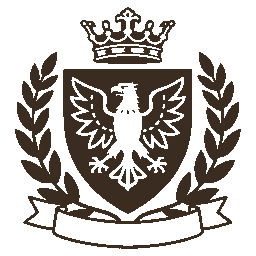
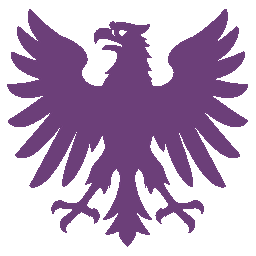
feat(art): 势力徽章只留主纹 + 13 个不同颜色（去掉王冠/绶带/盾/月桂）
用户 2026-10-21（第三轮）：
  也不要皇冠绶带盾牌 / 1、不同的徽章要不同的颜色，不要都是同一个颜色，区分度太低 /
  2、绶带都要填充，不要就是个框 / 3、沙漠那个只要两刀交叉 / 圣辉只要十字架 /
  翡翠只要毒蛇 / 铁峰只要实心山峰 + 交叉的剑

- 13 条题面全部改成 `a single symbol only: <主纹>, centred, nothing around it`
- 新变体 **`v8`**：`Bold flat vector silhouette of a single subject … no decoration around it`。
  `v7` 虽然写了"只要主纹"，但词里带 heraldic 就会被模型加上月桂枝 —— **别提纹章**才干净
- **每个势力一个颜色**：manifest 里每条写 `"ink": [r,g,b]`，`ink_knockout()` 按它上色
  （颜色不是模型画的，所以 13 个色是准的）：紫 / 靛蓝 / 近黑 / 朱红 / 金 / 橙 / 深褐 /
  翠绿 / 陶红 / 青灰 / 古铜 / 橄榄绿 / 灰
- 逐个点名的那四个照办：沙海=交叉双弯刀、圣辉=拉丁十字、翡翠=蛇、铁峰=实心山峰+交叉双剑；
  灰烬集会原来的圆环太像"禁止"标志，换成断剑
- 产物仍是设计稿：`docs/art/crests/<id>.png`（256×256）+ `_sheet.png` 总览

脚本：`gen-icons.py` 的 `process()` 支持按图标覆盖 `ink`（`post.crest.mono` 走亮度取反上色）。
文档：`icons.md` §11 重写（三轮纠偏的结论、13 枚主纹与配色表、为什么不能提 heraldic、
定稿时怎么缩 48 进游戏）；`diplomacy.md` §9.1 徽章一行的口径同步。

diff --git a/scripts/gen-icons.py b/scripts/gen-icons.py
@@ -350,7 +350,9 @@ def process(raw_path, icon, size, post=None):
     with Image.open(raw_path) as im:
         rgb = im.convert("RGB")
     if post.get("mono"):
-        cut = ink_knockout(rgb, tuple(post.get("ink", (58, 44, 32))),
+        # 颜色可以按图标覆盖（manifest 里写 `"ink": [r,g,b]`）：13 个势力纹章各一个色
+        ink = icon.get("ink") or post.get("ink", (58, 44, 32))
+        cut = ink_knockout(rgb, tuple(ink),
                            float(post.get("ink_lo", 110)), float(post.get("ink_hi", 190)))
         cut = fit_square(cut, size, margin=post.get("margin", 0.04))
         cut = harden_alpha(cut, lo=110)

diff --git a/docs/diplomacy.md b/docs/diplomacy.md
@@ -497,7 +497,7 @@ applyActions → updateRoutes → activateCompleted → activateResearch → lab
 |---|---:|---|---|---|
 | **外交 / 军事 面板图标** | 2 | `assets/ui/panel/diplomacy.png`<br>`assets/ui/panel/military.png` | 32×32 | 握手 + 卷轴与火漆／交叉的两把铁剑压在木盾上（两张都烤了左侧圆盘）|
 | **左侧圆盘** | 2 | `assets/ui/nav/diplomacy.png`<br>`assets/ui/nav/military.png` | 48×48 | 由上面两张**烤盘**（`manifest.navPlate`），不用单独画 |
-| **势力纹章** | 13 | **设计稿** `docs/art/crests/<id>.png`（256×256，单色墨稿）→ 定稿后缩 48 到 `assets/ui/faction/<id>.png` | 48×48（稿 256）| **王冠 + 盾 + 月桂 + 绶带 + 一个大主纹**，单色深墨、主纹留白（照用户 2026-10-21 给的矢量纹章参考图）：鹰／钥匙／渡鸦／火焰／麦穗／朝阳／石塔／盘蛇／交叉弯刀／雪山／拉丁十字／叶子／圆环 |
+| **势力徽章** | 13 | **设计稿** `docs/art/crests/<id>.png`（256×256）→ 定稿后缩 48 到 `assets/ui/faction/<id>.png` | 48×48（稿 256）| **只有一个实心剪影符号**（用户 2026-10-21：「也不要皇冠绶带盾牌」），**每个势力一个颜色**：紫鹰／靛蓝钥匙／黑渡鸦／朱红火焰／金麦穗／橙朝阳／褐石塔／翠绿蛇／陶红交叉弯刀／青灰山峰+交叉剑／古铜拉丁十字／橄榄绿叶／灰断剑 |
 | **关系牌** | 7 | `assets/ui/faction/rel_<id>.png`：`enemy` `cold` `neutral` `friendly` `respect` `ally` `vassal` | 32×32 | 交叉短刀／蓝色冰块／黄铜天平／**橄榄枝**（品红幕）／金色桂冠／双环相扣／铁链环 |
 | **动作按钮** | 3 | `assets/ui/faction/gift.png`<br>`assets/ui/faction/treaty.png`<br>`assets/ui/faction/war.png` | 32×32 | 礼盒+红丝带／带火漆的卷轴／铁战锤 |
 | **科技图标** | 4 | `assets/ui/tech/statecraft.png`<br>`assets/ui/tech/trade_goodwill_1.png`<br>`assets/ui/tech/trade_goodwill_2.png`<br>`assets/ui/tech/trade_goodwill_3.png` | 64×64 | 火漆卷轴+丝带+墨水瓶／漆盒礼包／双环压在账本上／王冠+异国贡品堆 |
@@ -505,12 +505,12 @@ applyActions → updateRoutes → activateCompleted → activateResearch → lab
 > 动作按钮做成 **32×32**（不是 24）：`icon_left_button` 显示 16px，32→16 正好整除；
 > 24→16 会出半像素、发糊。
 >
-> ⚠ **徽记是纹章，不是图标**（2026-10-21 用户两次纠偏）：第一版按物品图标出（王冠压铁砧、黑鸦立断剑……）
-> 全带明暗，看着像道具；第二版做成纯色小盾，用户又贴了矢量家族纹章参考图 —— 现在按参考图来：
-> **王冠 + 盾 + 月桂 + 绶带 + 一个大主纹，单色深墨、主纹白镂空**。
-> 走 `icon-manifest.json` 的 **`v6` 提示词** + 后处理 `ink_knockout()`（`post.crest.mono`，
-> 白底不要幕布色），题面模板与 13 个主纹见 [`icons.md`](icons.md) §11。
-> **设计稿在 `docs/art/crests/`（256px）**，定稿后再缩 48 覆盖 `assets/ui/faction/`。
+> ⚠ **徽章一路在做减法**（用户三轮纠偏）：① 先是物品图标（带光影，像道具）；② 改成纯色小盾；
+> ③ 照参考图加王冠 + 月桂 + 绶带；④ 最后**全砍掉** —— 只剩一个实心剪影符号，13 个势力各一个颜色
+> （"区分度太低"）。提示词用 **`v8`**（`Bold flat vector silhouette of a single subject`），
+> 题面 `a single symbol only: <主纹>, centred, nothing around it`；颜色不是模型画的，是
+> `ink_knockout()` 按 manifest 里每个图标的 `ink` 上色。口径与 13 枚对照表见
+> [`icons.md`](icons.md) §11。
 
 ### 9.2 建筑与立绘（各 1 张，✅ 已入库）
 
